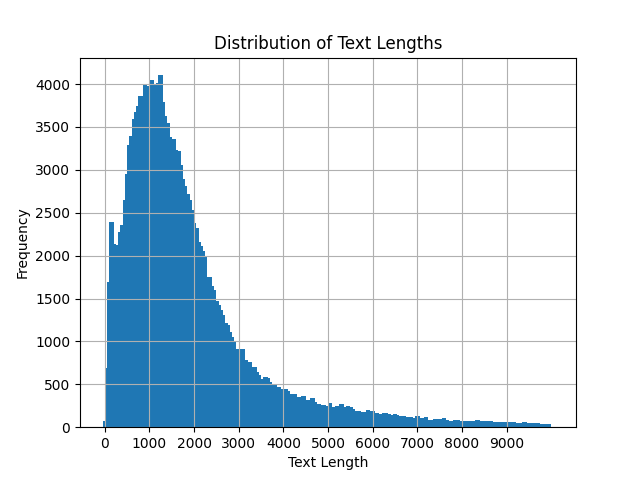
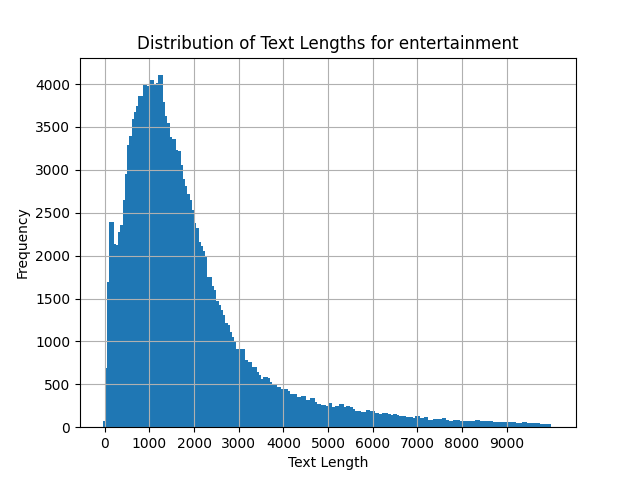
fix: add labels for length distribution charts

Changed region(s): [[0.2188, 0.0625, 0.8125, 0.125]]

diff --git a/data/analysis.py b/data/analysis.py
@@ -33,7 +33,7 @@ def get_text_length_distribution(domain):
 
     # Plotting
     plt.bar(bin_edges[:-1], hist, width=100)  # Use width=10 to match bin width
-    plt.title('Distribution of Text Lengths')
+    plt.title(f'Distribution of Text Lengths for {domain}')
     plt.xlabel('Text Length')
     plt.ylabel('Frequency')
     plt.grid(True)
